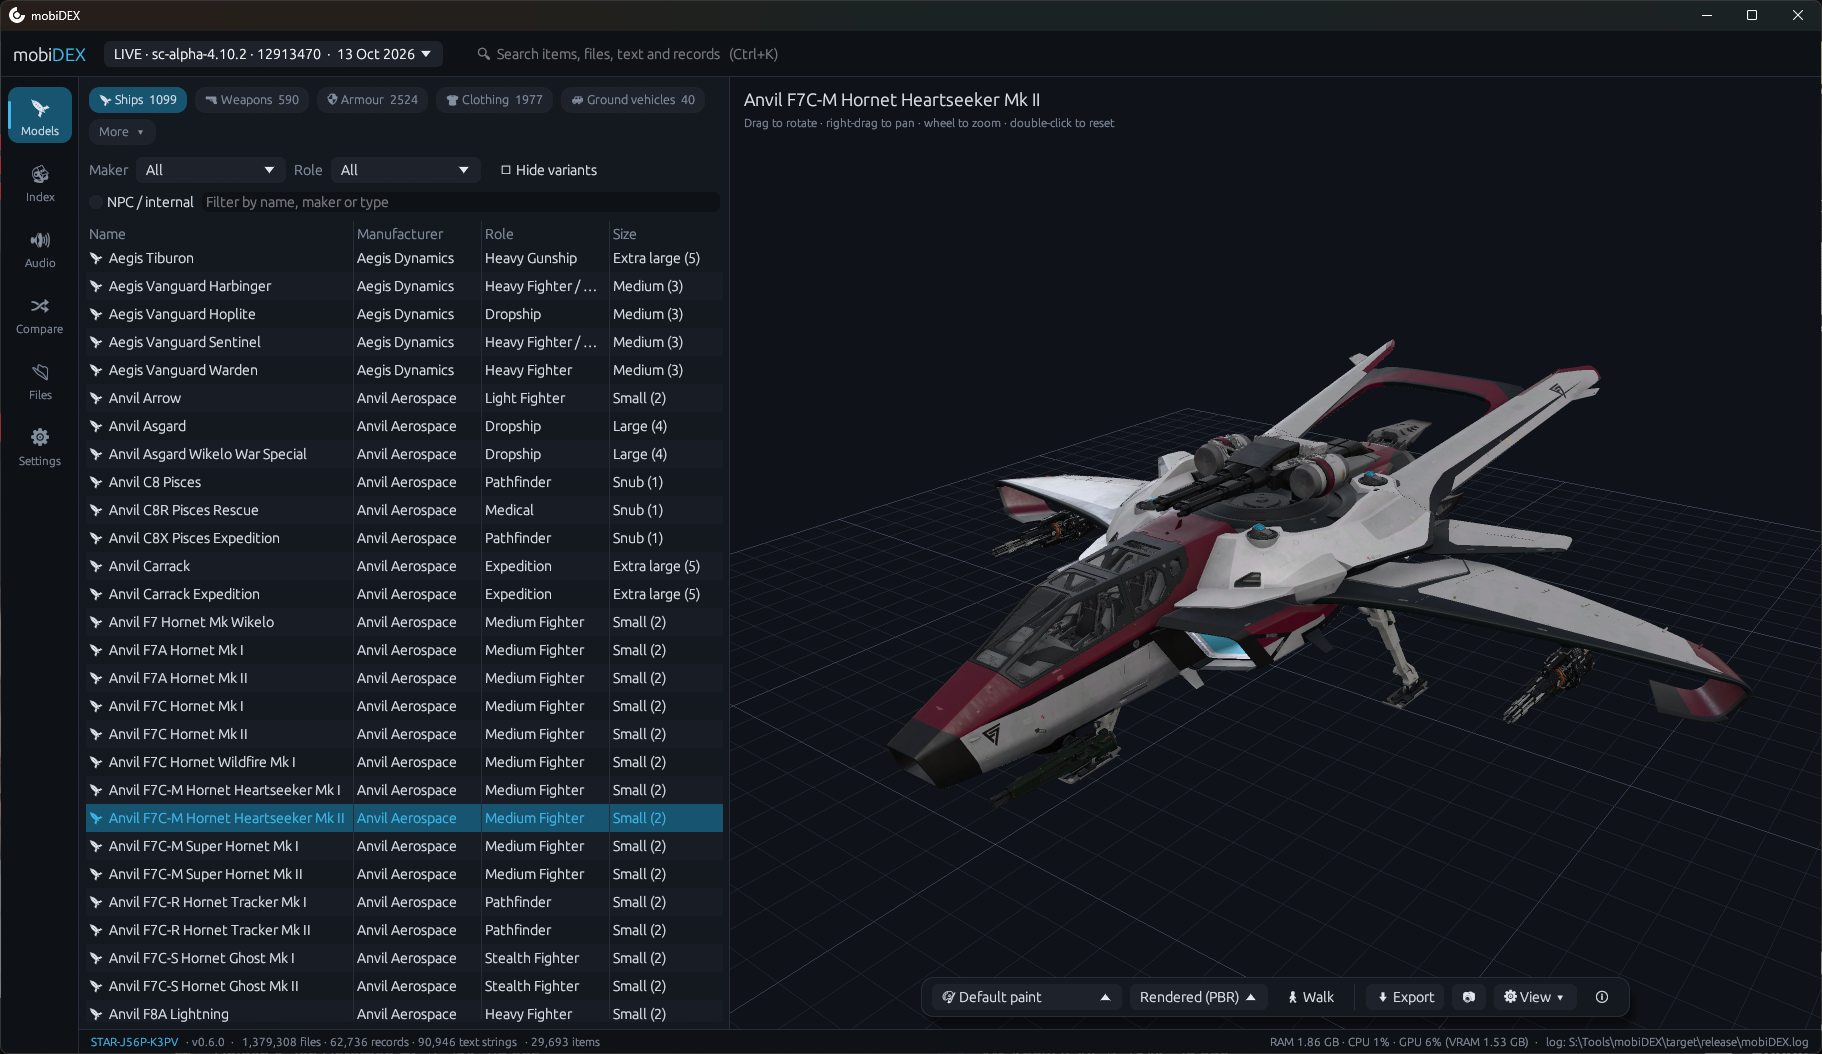
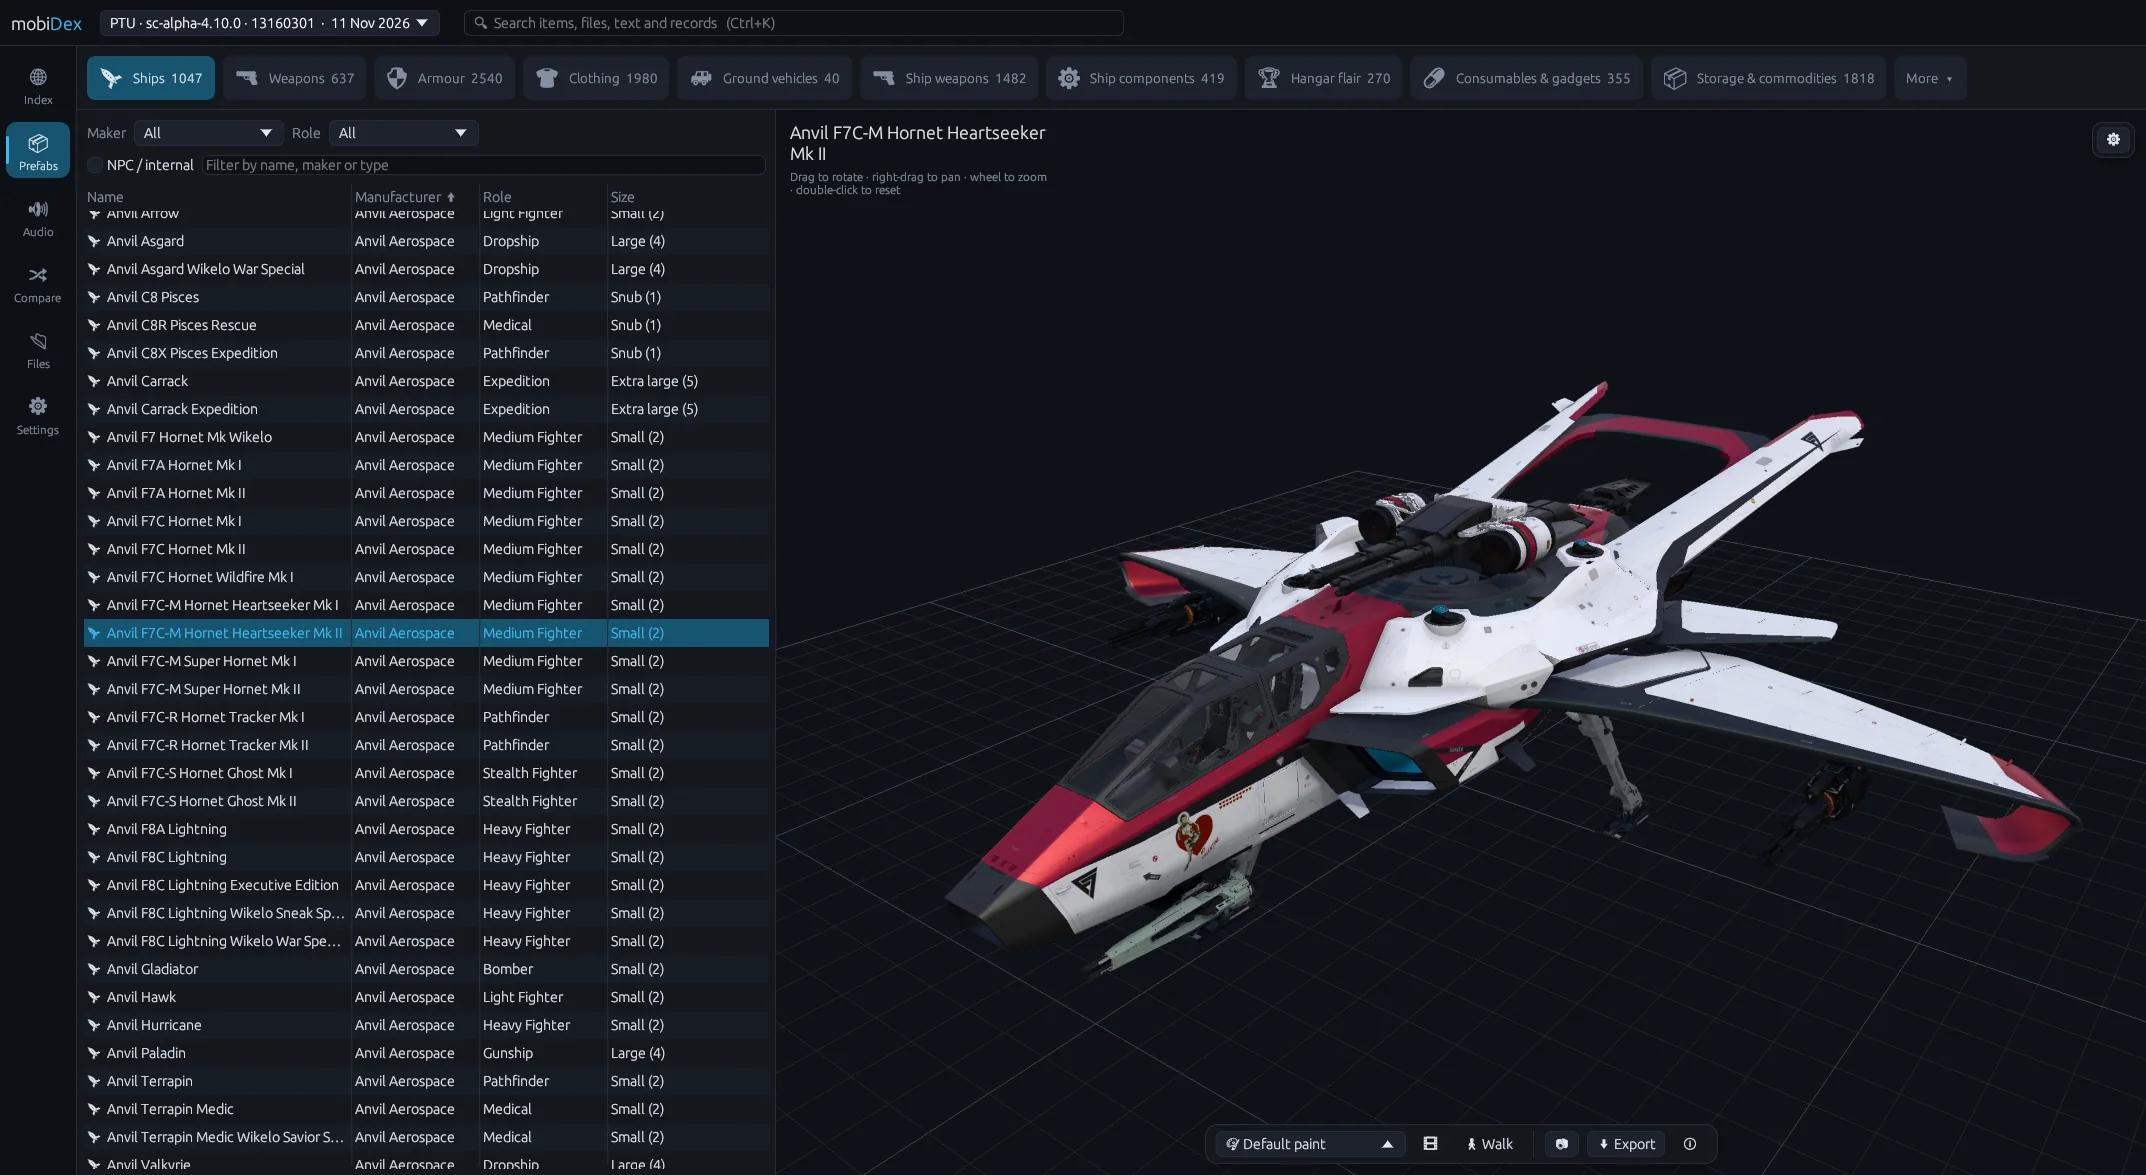
Update README screenshot to the new Prefabs page
Claude-Session: https://claude.ai/code/session_01MK2Zo5ticuXGhryfdcfRDU

diff --git a/README.md b/README.md
@@ -18,7 +18,7 @@
 </p>
 
 <p align="center">
-  <img src="assets/screenshot.png" alt="mobiDex showing the Anvil F7C-M Hornet Heartseeker Mk II in the Models page" width="100%">
+  <img src="assets/screenshot.png" alt="mobiDex showing the Anvil F7C-M Hornet Heartseeker Mk II in the Prefabs page" width="100%">
 </p>
 
 ---
